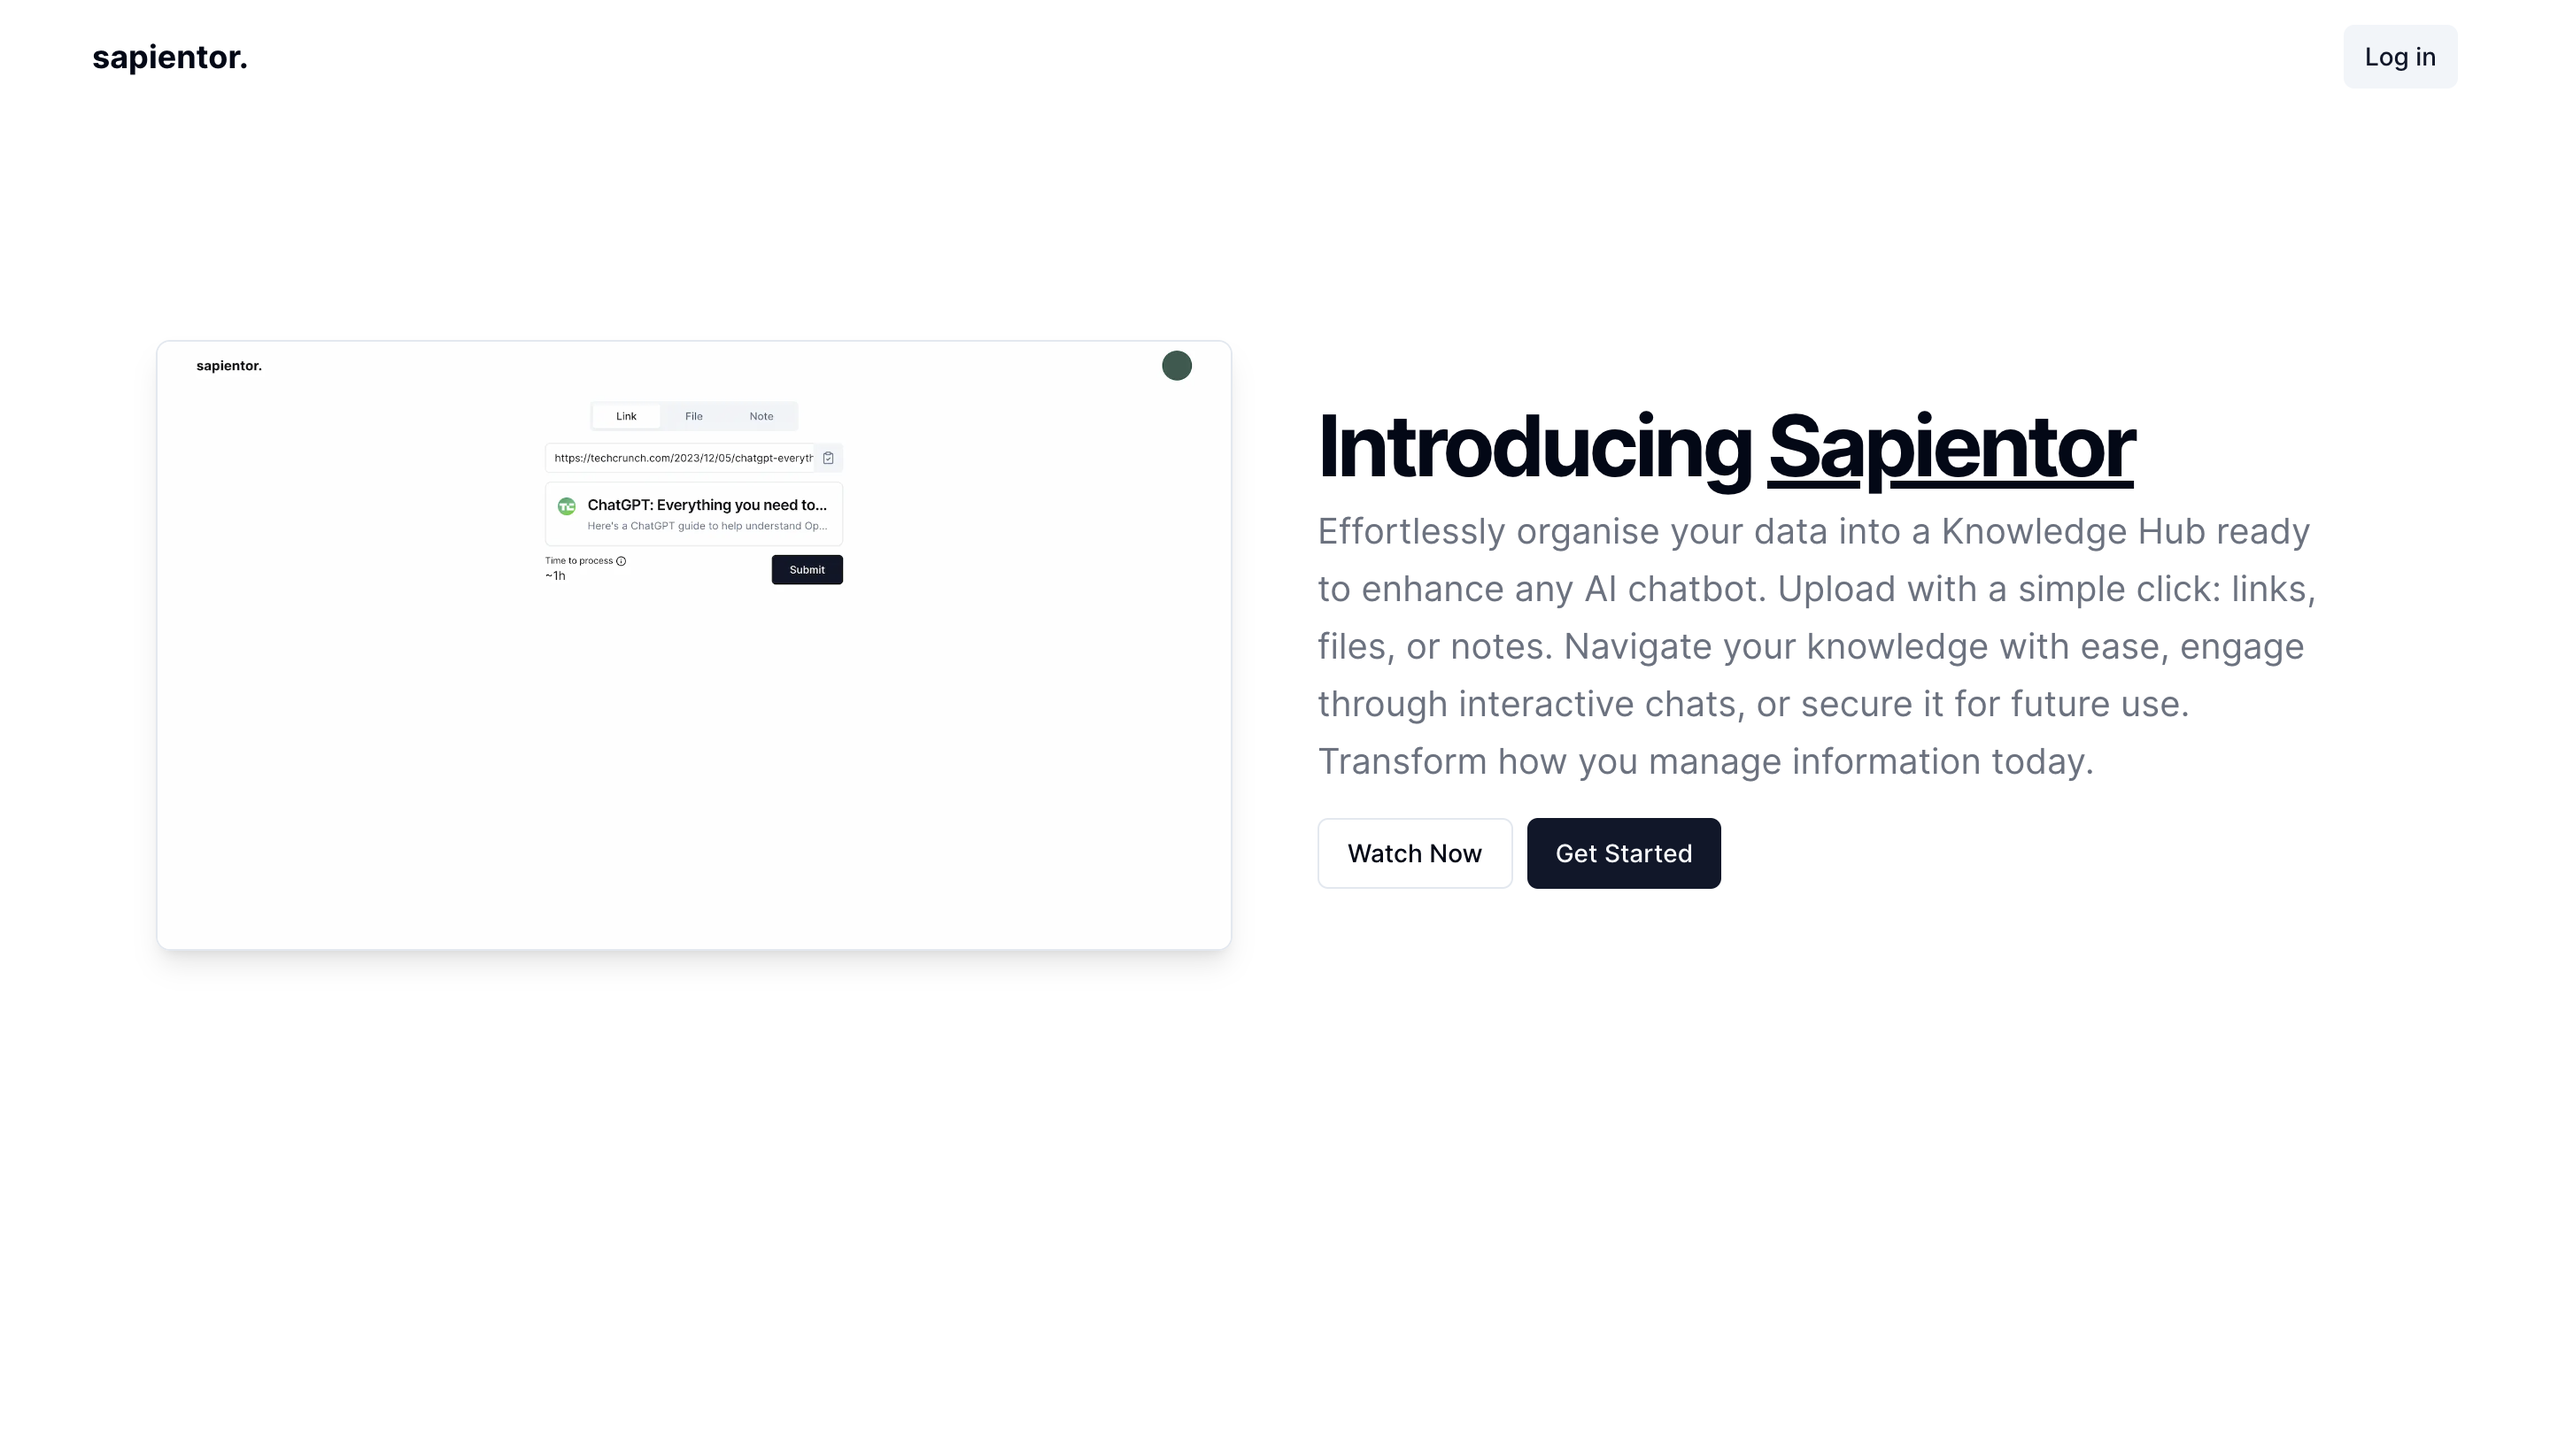
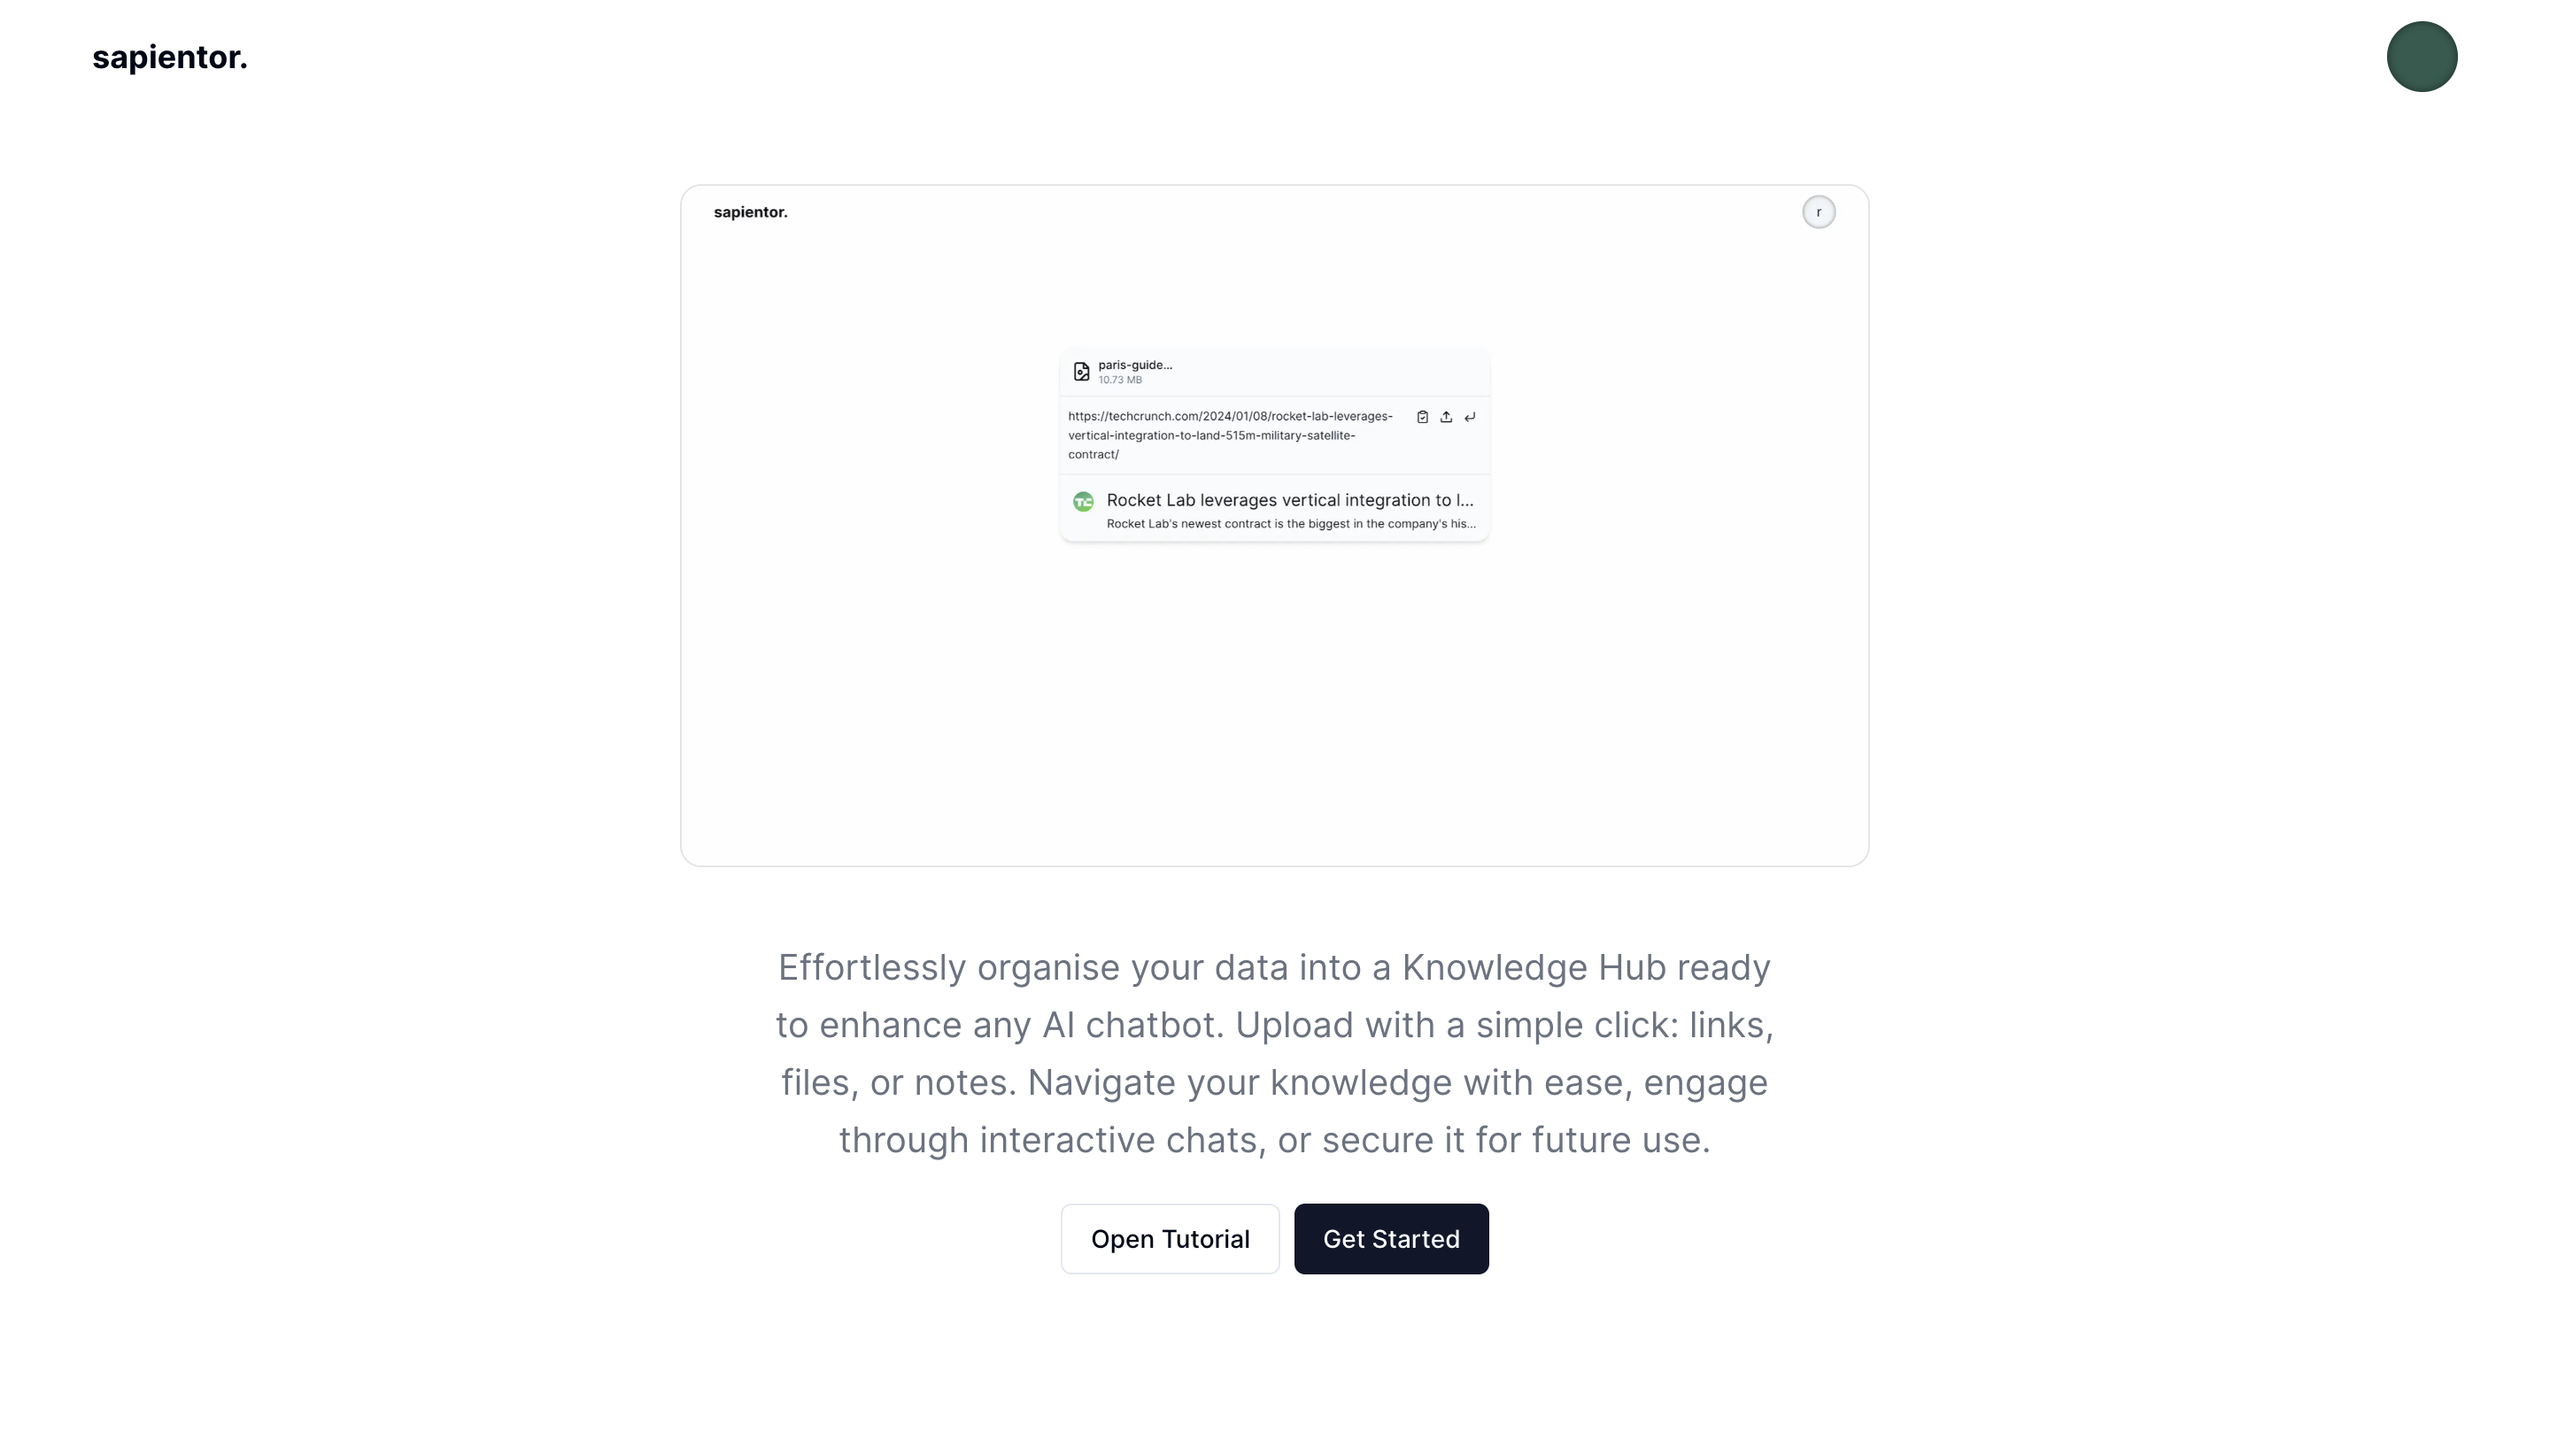
upd tutorial

diff --git a/app/tutorial/page.tsx b/app/tutorial/page.tsx
@@ -46,62 +46,48 @@ export default function Page() {
             Populating your Knowledge Hub
           </h2>
           <p>
-            After successful authorisation you will be redirected to the home
-            screen. It will now look differently. Now you will have to select
-            what will be the source for your data:
+            After successful authorisation you will be redirected to the Add Sources
+            page. Here you can insert one of the following types of data into the input:
           </p>
-          <Image
-            src="/tutorial/tabs.png"
-            alt="Parsing tabs options"
-            width={400}
-            height={300}
-            className="mx-auto rounded-md"
-          />
           <ol className="list-decimal list-inside mb-5">
             <li>
               <b>Link.</b> Provide a URL to an article, essay, news, youtube
               video, etc.
             </li>
             <li>
-              <b>File.</b> You can upload a file with text content. Currently we
-              support PDF, CSV, DOCX, XLSX, TXT formats.
+              <b>File.</b> You can upload a file with text content. Currently the following formats are supported: <b>.pdf, .csv, .docx, .xlsx, .txt</b>.
             </li>
             <li>
-              <b>Note.</b> Paste any text note into the textarea.
+              <b>Note.</b> Type or paste any text note into the input.
             </li>
           </ol>
+          <Image 
+          src="/tutorial/add-input.png"
+          alt="Add sources input"
+          width={500}
+          height={300}
+          className="mx-auto rounded-md"
+          /> 
           <p>
-            After you input your data into Link or File tab you will see 2 new
-            blocks appearing:
+            To add link just type it into the input or click paste button:
           </p>
-          <div>
-            <Image
-              src="/tutorial/link-blocks.png"
-              alt="Link parsing additional blocks"
+          <Image
+              src="/tutorial/link-input.png"
+              alt="Adding link into the input"
               width={400}
               height={300}
               className="mx-auto rounded-md"
             />
-            <Image
-              src="/tutorial/file-blocks.png"
-              alt="File upload additional blocks"
+            <p>
+            To add file click upload button and select files from your storage:
+          </p>
+          <Image
+              src="/tutorial/upload-input.png"
+              alt="Uploading files"
               width={400}
               height={300}
               className="mx-auto rounded-md"
             />
-          </div>
-          <ul className="list-disc list-inside">
-            <li>First block is a preview of the content you provided.</li>
-            <li>Second one is an estimation block with a Submit button.</li>
-          </ul>
-          <p>
-            Estimation gives you an idea of how much time at maximum it will
-            take to parse the content you provided and add into your Knowledge
-            Hub. Normally it should happen below that threshold but it&apos;s
-            good to know how much time it will take at worst, in case the
-            website you provided is restrictive or the content is not a text,
-            but a video, for example.
-          </p>
         </section>
         <section className="mb-5 border-b">
           <h2 className="text-xl sm:text-2xl font-semibold mb-2.5">
@@ -113,7 +99,7 @@ export default function Page() {
           </p>
           <Image
             src="/tutorial/navigation.png"
-            alt="File upload additional blocks"
+            alt="Application navigation"
             width={800}
             height={500}
             className="mx-auto rounded-md"
@@ -161,20 +147,6 @@ export default function Page() {
           </p>
           <Image
             src="/tutorial/entry-actions.png"
-            alt="Knowledge Hub view"
-            width={300}
-            height={200}
-            className="mx-auto rounded-md"
-          />
-          <p>
-            Also, you can download your Knowledge Hub in JSON format at any time
-            by clicking on &quot;Download Knowledge Hub&quot; button. Please,
-            note that the button appear once you have at least 1 entry which was
-            successfully processed, added to your Knowledge Hub and has a
-            Completed status.
-          </p>
-          <Image
-            src="/tutorial/download-button.png"
             alt="Knowledge Hub view"
             width={300}
             height={200}

diff --git a/components/landing/app-preview-card.tsx b/components/landing/app-preview-card.tsx
@@ -4,12 +4,21 @@ import React from "react"
 import dynamic from "next/dynamic"
 import Image from "next/image"
 
-const PlayCircleIcon = dynamic(() => import("lucide-react").then((mod) => mod.PlayCircleIcon))
-const StopCircleIcon = dynamic(() => import("lucide-react").then((mod) => mod.StopCircleIcon))
-const CardContainer = dynamic(() => import("../ui/3d-card").then((mod) => mod.CardContainer), {
-  loading: () => <ImageLoader />,
-})
-const CardBody = dynamic(() => import("../ui/3d-card").then((mod) => mod.CardBody))
+const PlayCircleIcon = dynamic(() =>
+  import("lucide-react").then((mod) => mod.PlayCircleIcon)
+)
+const StopCircleIcon = dynamic(() =>
+  import("lucide-react").then((mod) => mod.StopCircleIcon)
+)
+const CardContainer = dynamic(
+  () => import("../ui/3d-card").then((mod) => mod.CardContainer),
+  {
+    loading: () => <ImageLoader />,
+  }
+)
+const CardBody = dynamic(() =>
+  import("../ui/3d-card").then((mod) => mod.CardBody)
+)
 
 export function AppPreviewCard() {
   const [playVideo, setPlayVideo] = React.useState(false)
@@ -17,7 +26,7 @@ export function AppPreviewCard() {
     <CardContainer className="inter-var">
       <CardBody
         onClick={() => setPlayVideo(!playVideo)}
-        className="relative group/card dark:hover:shadow-2xl dark:hover:shadow-emerald-500/[0.1] dark:bg-black dark:border-white/[0.2] border-black/[0.1] w-auto max-w-2xl h-auto rounded-xl border "
+        className="relative group/card dark:hover:shadow-2xl dark:hover:shadow-emerald-500/[0.1] dark:bg-black dark:border-white/[0.2] border-black/[0.1] w-full max-w-2xl h-auto rounded-xl border "
       >
         {playVideo ? (
           <video
@@ -37,7 +46,7 @@ export function AppPreviewCard() {
             alt="thumbnail"
           />
         )}
-        <div className=" absolute top-0 left-0 rounded-xl w-full h-full opacity-0 bg-slate-400 bg-opacity-50 group-hover/card:opacity-100 flex transition-opacity justify-center items-center flex-col gap-1 text-white">
+        <div className="absolute top-0 left-0 rounded-xl w-full h-full opacity-0 bg-slate-400 bg-opacity-50 group-hover/card:opacity-100 flex transition-opacity justify-center items-center flex-col gap-1 text-white">
           {playVideo ? (
             <StopCircleIcon size={32} />
           ) : (
@@ -53,11 +62,14 @@ export function AppPreviewCard() {
 const ImageLoader = () => {
   return (
     <div className="w-full max-w-2xl h-auto rounded-xl border ">
-      <Image src="/screenshot.png"
-            height="1000"
-            width="1000"
-            className="h-96 w-full object-cover rounded-xl"
-            alt="thumbnail" />
+      <Image
+        src="/screenshot.png"
+        height="1000"
+        width="1000"
+        className="h-96 w-full object-cover rounded-xl"
+        alt="thumbnail"
+        priority
+      />
     </div>
   )
 }

diff --git a/components/landing/hero-banner.tsx b/components/landing/hero-banner.tsx
@@ -9,17 +9,17 @@ export const HeroBanner = () => {
       <div className="container px-4 md:px-6">
         <AppPreviewCard />
         <div className="mx-auto max-w-2xl flex flex-col items-center">
-        <p className="max-w-xl text-gray-500 md:text-xl/relaxed lg:text-base/relaxed xl:text-xl/relaxed dark:text-gray-400 mb-5 text-center">
-          {desc_v5}
-        </p>
-        <div className="flex flex-wrap gap-2 justify-center">
-          <Link href="/tutorial">
-            <Button variant="outline">Open Tutorial</Button>
-          </Link>
-          <Link prefetch href="/add">
-            <Button className="text-sm">Get Started</Button>
-          </Link>
-        </div>
+          <p className="max-w-xl text-gray-500 md:text-xl/relaxed lg:text-base/relaxed xl:text-xl/relaxed dark:text-gray-400 mb-5 text-center">
+            {desc_v5}
+          </p>
+          <div className="flex flex-wrap gap-2 justify-center">
+            <Link href="/tutorial">
+              <Button variant="outline">Open Tutorial</Button>
+            </Link>
+            <Link prefetch href="/add">
+              <Button className="text-sm">Get Started</Button>
+            </Link>
+          </div>
         </div>
       </div>
     </div>

diff --git a/components/landing/index.tsx b/components/landing/index.tsx
@@ -1,16 +1,9 @@
-// import { Benefits } from "./benefits"
-// import { DataSources } from "./data-sources"
 import { HeroBanner } from "./hero-banner"
-
-// import { Pricing } from "./pricing"
 
 export const Landing = () => {
   return (
     <div className="grid gap-24">
       <HeroBanner />
-      {/* <DataSources /> */}
-      {/* <Benefits /> */}
-      {/* <Pricing /> */}
     </div>
   )
 }
